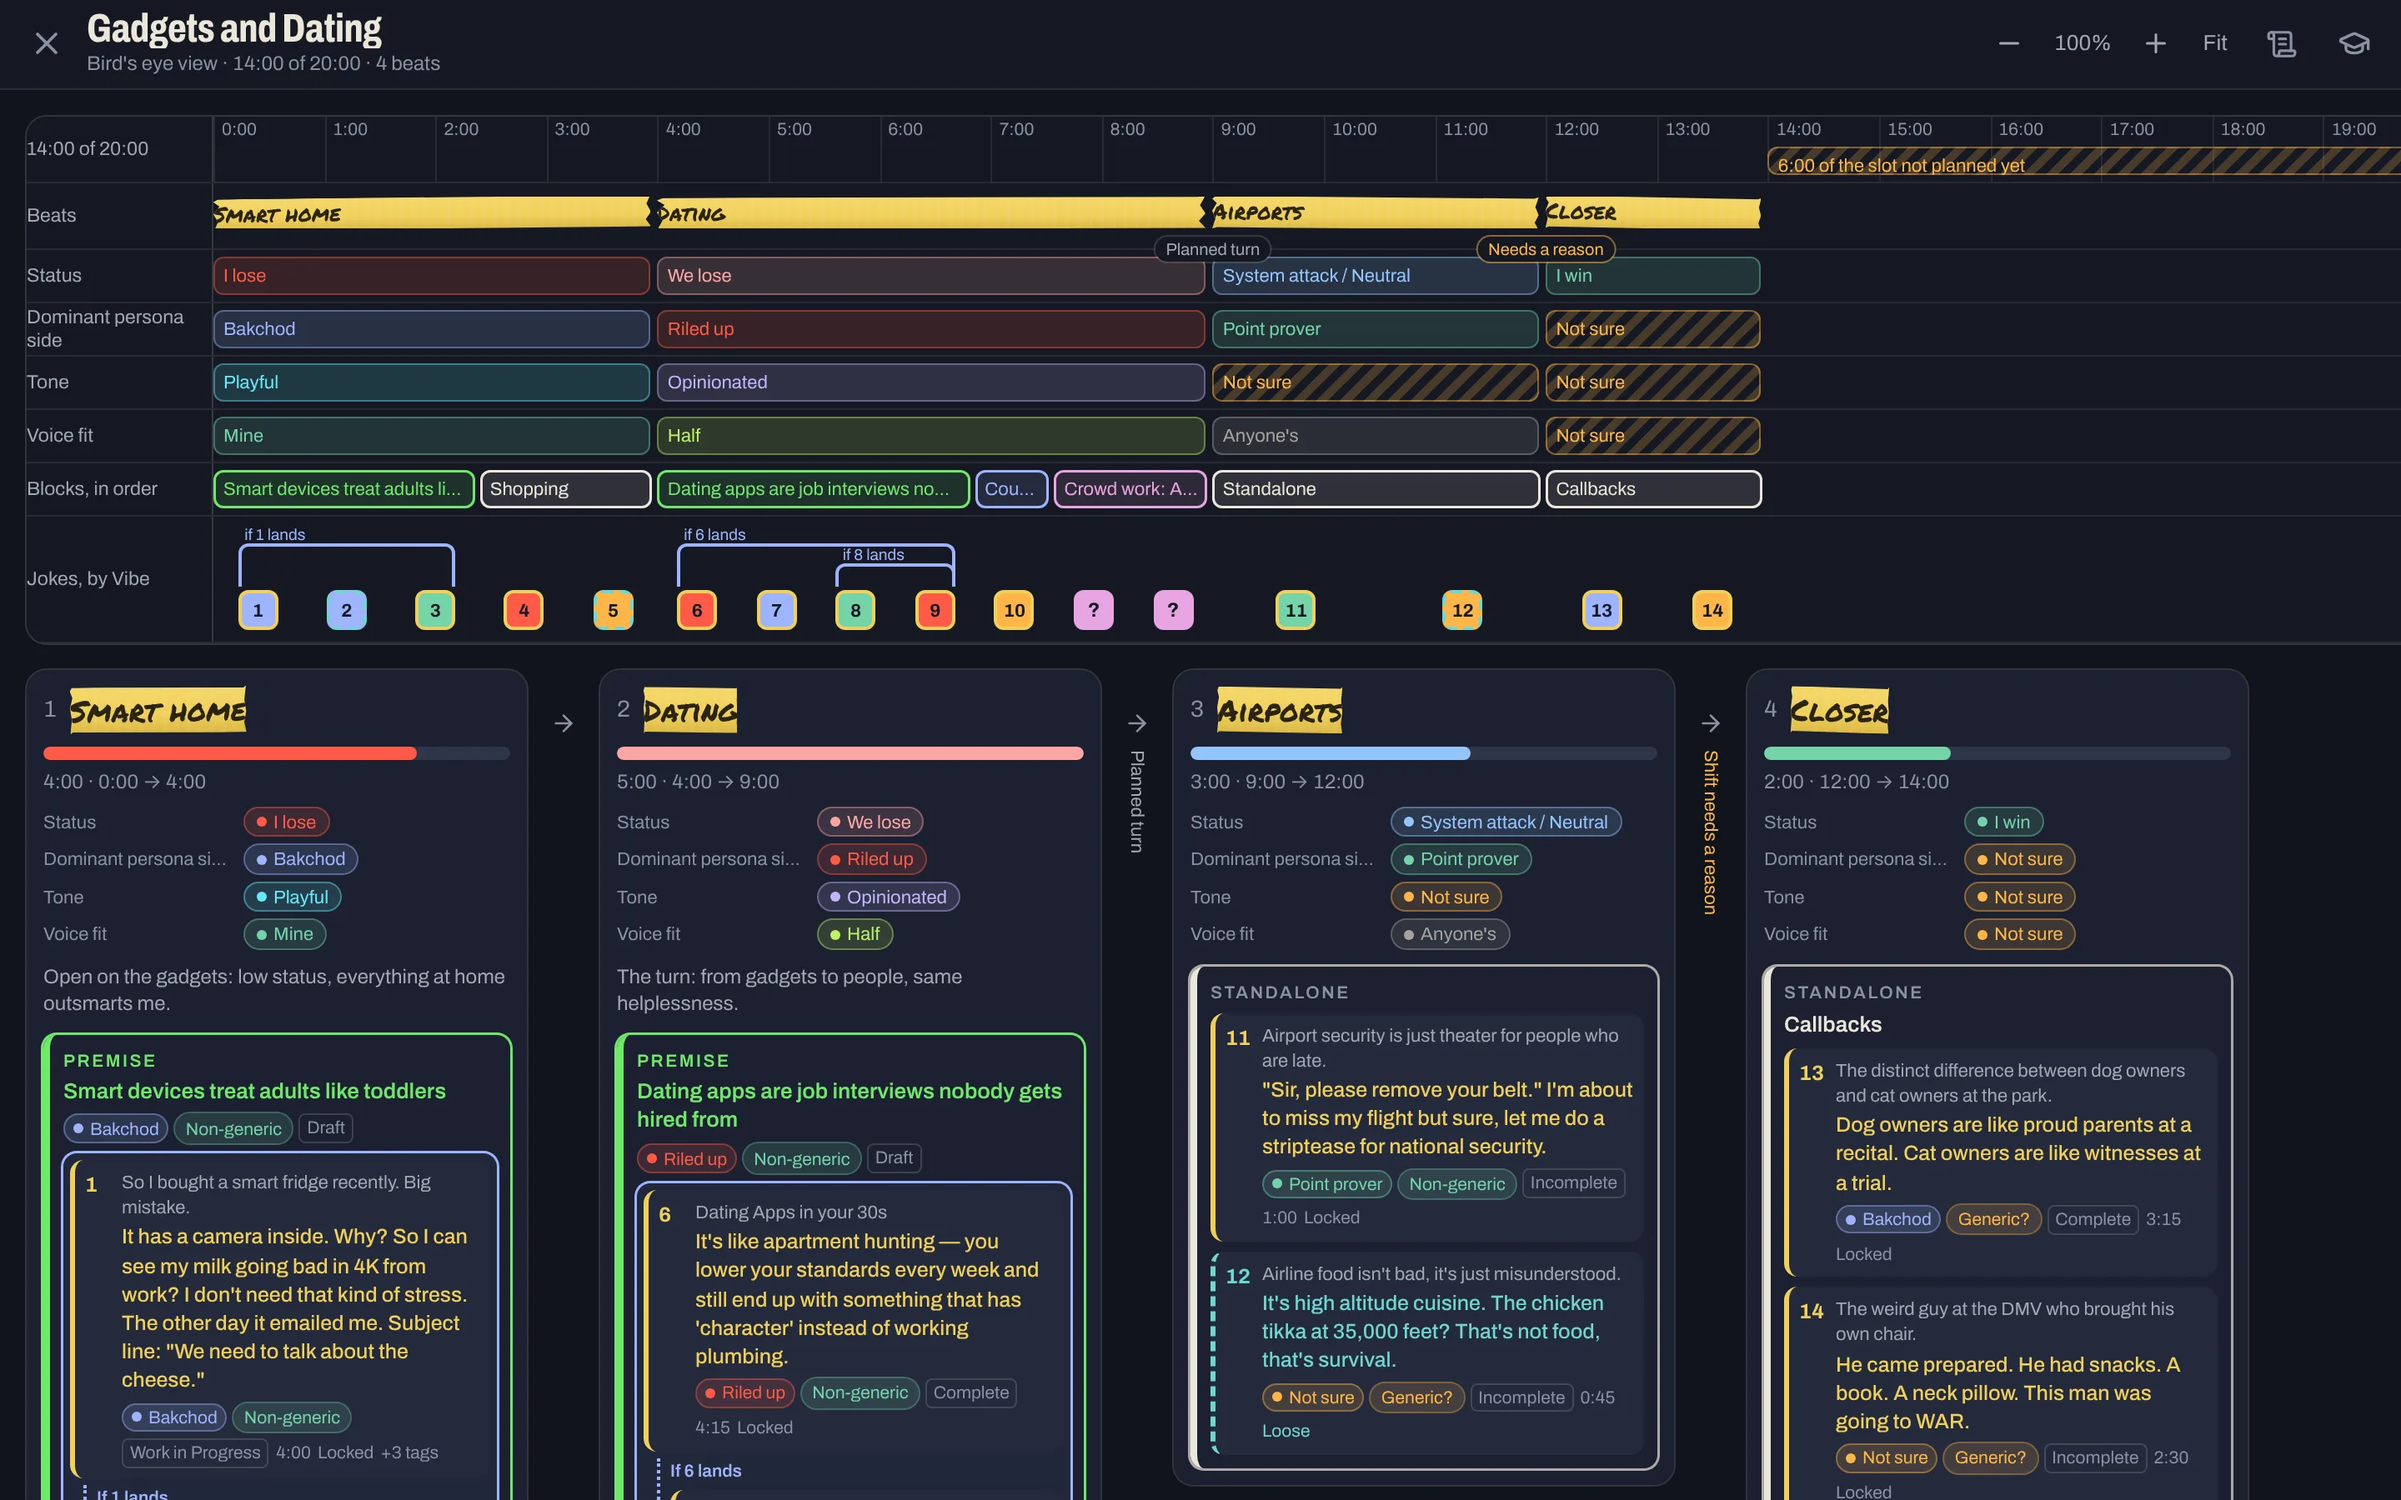
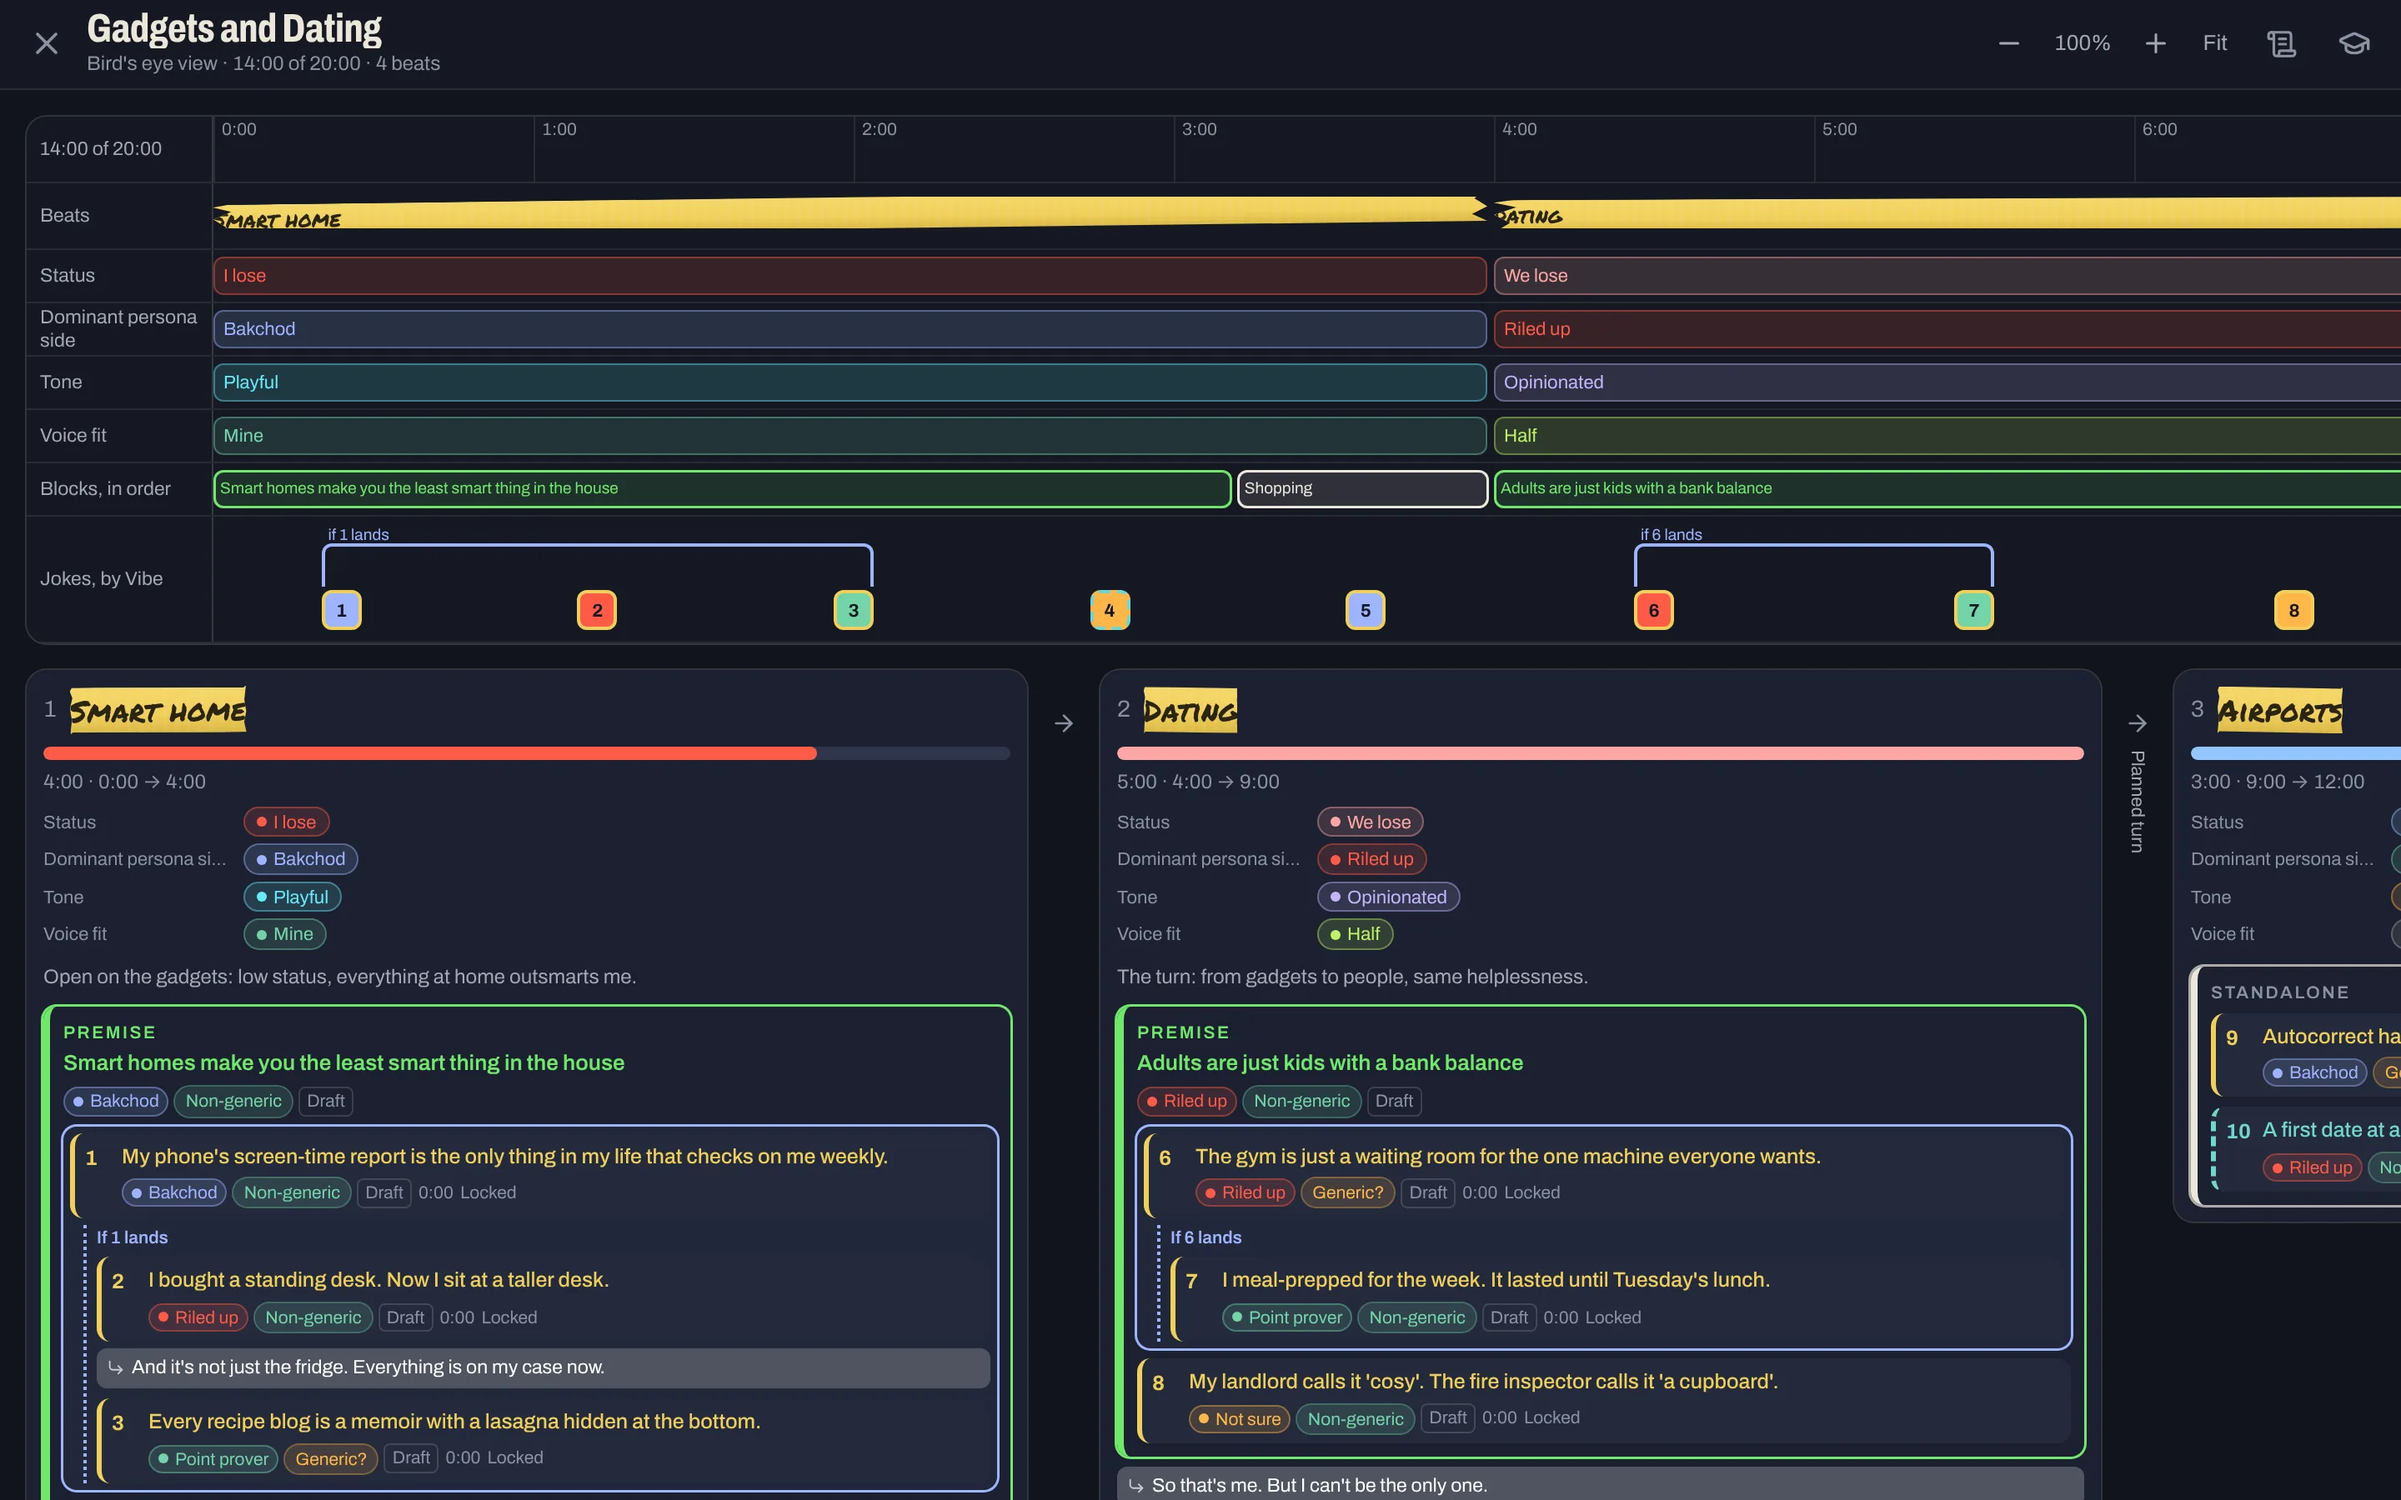
Bird's eye view: one fixed time scale, wider beat columns (#222)
The time strip now uses one scale for every set (3.2 px a second, so five
minutes is 960 px at 100%) instead of stretching to fit the board, and the
board's beat columns are 600 px instead of 300. The strip's lane names stay
pinned on the left when scrolling sideways (overflow-clip instead of hidden,
so sticky works). Docs and screenshots updated with the demo set.

Claude-Session: https://claude.ai/code/session_019rjoQomxuHBrZFeBDgap32

diff --git a/web/src/features/sets/BirdsEyeView.tsx b/web/src/features/sets/BirdsEyeView.tsx
@@ -1,8 +1,8 @@
 /**
  * Bird's eye view (docs/sets.md): the whole set from above, to read and plan. The time strip runs
- * across the top, to scale against the slot, and the beat board sits under it: one column per beat
- * with its labels, blocks, gates and every joke in full. Both scroll together, both ways, and zoom
- * (useZoom.ts). Tap a joke on the strip to find it on the board. Colours come from your Label
+ * across the top, to one scale for every set (birdsEye.ts), and the beat board sits under it: one
+ * column per beat with its labels, blocks, gates and every joke in full. Both scroll together,
+ * both ways, and zoom (useZoom.ts). Tap a joke on the strip to find it on the board. Colours come from your Label
  * fields and each joke's Vibe, as in the builder.
  */
 import { GraduationCap, Minus, Plus, ScrollText, X } from 'lucide-react'
@@ -19,7 +19,7 @@ import { personaLabel, usePersonaField } from '../jokes/persona'
 import { useVibeTone } from '../jokes/vibeTone'
 import { BeatBoard } from './BeatBoard'
 import { beatTotal, beatsOf } from './beats'
-import { boardWidth, numbers, scaleFor, starts, stripLayout } from './birdsEye'
+import { PX_PER_SECOND as px, numbers, starts, stripLayout } from './birdsEye'
 import { TimeStrip } from './TimeStrip'
 import { useZoom } from './useZoom'
 
@@ -43,7 +43,6 @@ export function BirdsEyeView() {
   if (!setlist) return <div className="p-8 text-dim">Set not found. <Link to="/sets" className="text-tape">Back to sets</Link></div>
   const total = beatTotal(beats)
   const slot = setlist.target_seconds || total
-  const px = scaleFor(boardWidth(beats.length), Math.max(slot, total))
   const strip = stripLayout(beats, slot, px, number)
   const data = {
     jokes: new Map(jokes.map((j) => [j.id, j])),

diff --git a/web/src/features/sets/TimeStrip.tsx b/web/src/features/sets/TimeStrip.tsx
@@ -23,7 +23,7 @@ const seg = 'absolute top-1 bottom-1 overflow-hidden rounded-md px-1.5 text-[11p
 function Lane({ name, height, width, children }: { name: string; height: number; width: number; children: ReactNode }) {
   return (
     <div className="flex border-b border-rule" style={{ height }}>
-      <div className="sticky left-0 z-10 flex shrink-0 items-center border-r border-rule-strong bg-ink pr-2 text-[11.5px] leading-tight text-dim" style={{ width: LABEL }}>{name}</div>
+      <div className="sticky left-0 z-10 flex shrink-0 items-center border-r border-rule-strong bg-ink px-2 text-[11.5px] leading-tight text-dim" style={{ width: LABEL }}>{name}</div>
       <div className="relative shrink-0" style={{ width }}>{children}</div>
     </div>
   )
@@ -37,7 +37,7 @@ export function TimeStrip({ strip, pxPerSecond, slot, total, fields, data, onPic
   const sf = statusField(fields)
   const shift = (b: Beat, i: number) => i > 0 && (hasReason(b) || needsWhy(beats, i, fields))
   return (
-    <div className="mb-4 w-max overflow-hidden rounded-xl bg-ink ring-1 ring-rule-strong">
+    <div className="mb-4 w-max overflow-clip rounded-xl bg-ink ring-1 ring-rule-strong">
       <Lane name={`${clock(total)} of ${clock(slot)}`} height={40} width={width}>
         {strip.ticks.map((t) => <span key={t} className="absolute top-0 bottom-0 border-l border-rule pl-1 text-[10.5px] text-faint tabular" style={{ left: t * pxPerSecond }}>{clock(t)}</span>)}
         {total < slot && <div className={`${seg} top-[18px]`} style={{ left: total * pxPerSecond, width: (slot - total) * pxPerSecond, ...hatch(NOT_SURE_COLOR) }}>{clock(slot - total)} of the slot not planned yet</div>}

diff --git a/web/src/features/sets/birdsEye.ts b/web/src/features/sets/birdsEye.ts
@@ -88,14 +88,17 @@ export function stripLayout(beats: Beat[], slotSeconds: number, pxPerSecond: num
   return out
 }
 
-/** The board's columns and the gaps between them, in pixels at 100%. */
-export const COLUMN = 300
+/**
+ * The strip's one scale, the same for every set: 3.2 px a second at 100%, so five minutes is
+ * 960 px. A fixed scale keeps a minute the same width from set to set; longer sets scroll sideways.
+ */
+export const PX_PER_SECOND = 3.2
+
+/** The board's columns and the gaps between them, in pixels at 100%. Wide, so less scrolls down. */
+export const COLUMN = 600
 export const GUTTER = 44
 export const boardWidth = (beats: number) => Math.max(0, beats * COLUMN + (beats - 1) * GUTTER)
 
-/** Pixels per second so the strip is about as wide as the board under it, and never too narrow. */
-export const scaleFor = (boardWidth: number, seconds: number, minWidth = 720) =>
-  seconds > 0 ? Math.max(boardWidth, minWidth) / seconds : 1
 
 /** A zoom step, kept between a quarter size and three times. */
 export const clampZoom = (z: number) => Math.min(3, Math.max(0.25, Math.round(z * 100) / 100))

diff --git a/web/src/features/sets/birdsEye.test.ts b/web/src/features/sets/birdsEye.test.ts
@@ -1,6 +1,6 @@
 import { describe, expect, it } from 'vitest'
 import type { Beat, SetEntry, SetPiece } from '../../api/types'
-import { clampZoom, depths, numbers, scaleFor, starts, stripLayout, ticks } from './birdsEye'
+import { clampZoom, depths, numbers, PX_PER_SECOND, starts, stripLayout, ticks } from './birdsEye'
 
 const piece = (id: string, gate = 0, loose = false): SetPiece => ({ id, joke_id: `j-${id}`, gate, loose })
 const jokes = (id: string, ...pieces: SetPiece[]): SetEntry => ({ kind: 'jokes', id, pieces })
@@ -62,10 +62,9 @@ describe('scale and zoom', () => {
     expect(ticks(900, 0.5)).toEqual([0, 300, 600, 900])
   })
 
-  it('matches the board width, never narrower than the minimum', () => {
-    expect(scaleFor(1200, 600)).toBe(2)
-    expect(scaleFor(300, 360)).toBe(2)
-    expect(scaleFor(300, 0)).toBe(1)
+  it('draws five minutes 960 px wide, whatever the set', () => {
+    expect(300 * PX_PER_SECOND).toBe(960)
+    expect(ticks(1200, PX_PER_SECOND)).toHaveLength(21)
   })
 
   it('keeps zoom between a quarter and three times', () => {

diff --git a/docs/screens-perform.md b/docs/screens-perform.md
@@ -140,7 +140,9 @@ on screen), the cue card and **Before you go on**. Under it, one frame scrolls b
 zoom: ctrl and the scroll wheel (or a trackpad pinch) zoom too, a pinch on a phone zooms the page,
 and each device remembers its zoom.
 
-- **The time strip**, on top, to scale against the slot. Lanes: the time (with what's left of the
+- **The time strip**, on top, to one scale for every set: a minute is 192 px at 100% (five minutes
+  960 px), so a longer set scrolls sideways rather than squeezing. Its lane names stay pinned on the
+  left as you scroll. Lanes: the time (with what's left of the
   slot hatched amber, or how far over), the beats as cue strips, one lane per label field in its
   options' colours (Not sure hatched amber, and the shift reason, or **Needs a reason**, where the
   status changes), the blocks in order (in smaller type, so short blocks stay readable), and the jokes as numbered chips in their Vibe colour, edged
@@ -148,7 +150,7 @@ and each device remembers its zoom.
   questions are orchid **?** chips. Only beats have time: blocks and jokes keep their order in equal
   slots, so their widths say nothing about how long they run. Tap a joke chip to scroll to it on
   the board, outlined for a moment.
-- **The beat board**, under it: one 300 px column per beat, in running order. The column head has
+- **The beat board**, under it: one 600 px column per beat (wide, so a beat needs less scrolling down), in running order. The column head has
   the cue on tape, a bar for its time against the longest beat in its status colour, its start and
   end, every label with its colour, and what it's for. Then its blocks: a premise outlined leaf green
   (sky blue, "only if the premise before landed", when gated) with its take, Vibe, Generic and

diff --git a/docs/sets.md b/docs/sets.md
@@ -274,7 +274,8 @@ until you hide them, and **How sets work** opens the whole guide.
 
 - **Bird's eye view** ([BirdsEyeView.tsx](../web/src/features/sets/BirdsEyeView.tsx), laid out by
   [birdsEye.ts](../web/src/features/sets/birdsEye.ts)) shows the whole set from above. On top, a
-  **time strip** to scale against the slot: the beats, a lane per label field in its colours (Not
+  **time strip** to scale against the slot, at one scale for every set (five minutes is 960 px at
+  100%, so longer sets scroll sideways): the beats, a lane per label field in its colours (Not
   sure hatched amber, and where the status shifts, the reason or "Needs a reason"), the blocks in
   order, and the jokes as numbered chips in their Vibe colour, with gates as sky brackets. Under it,
   the **beat board**: a column per beat with its labels, and its blocks, gates and every joke in
